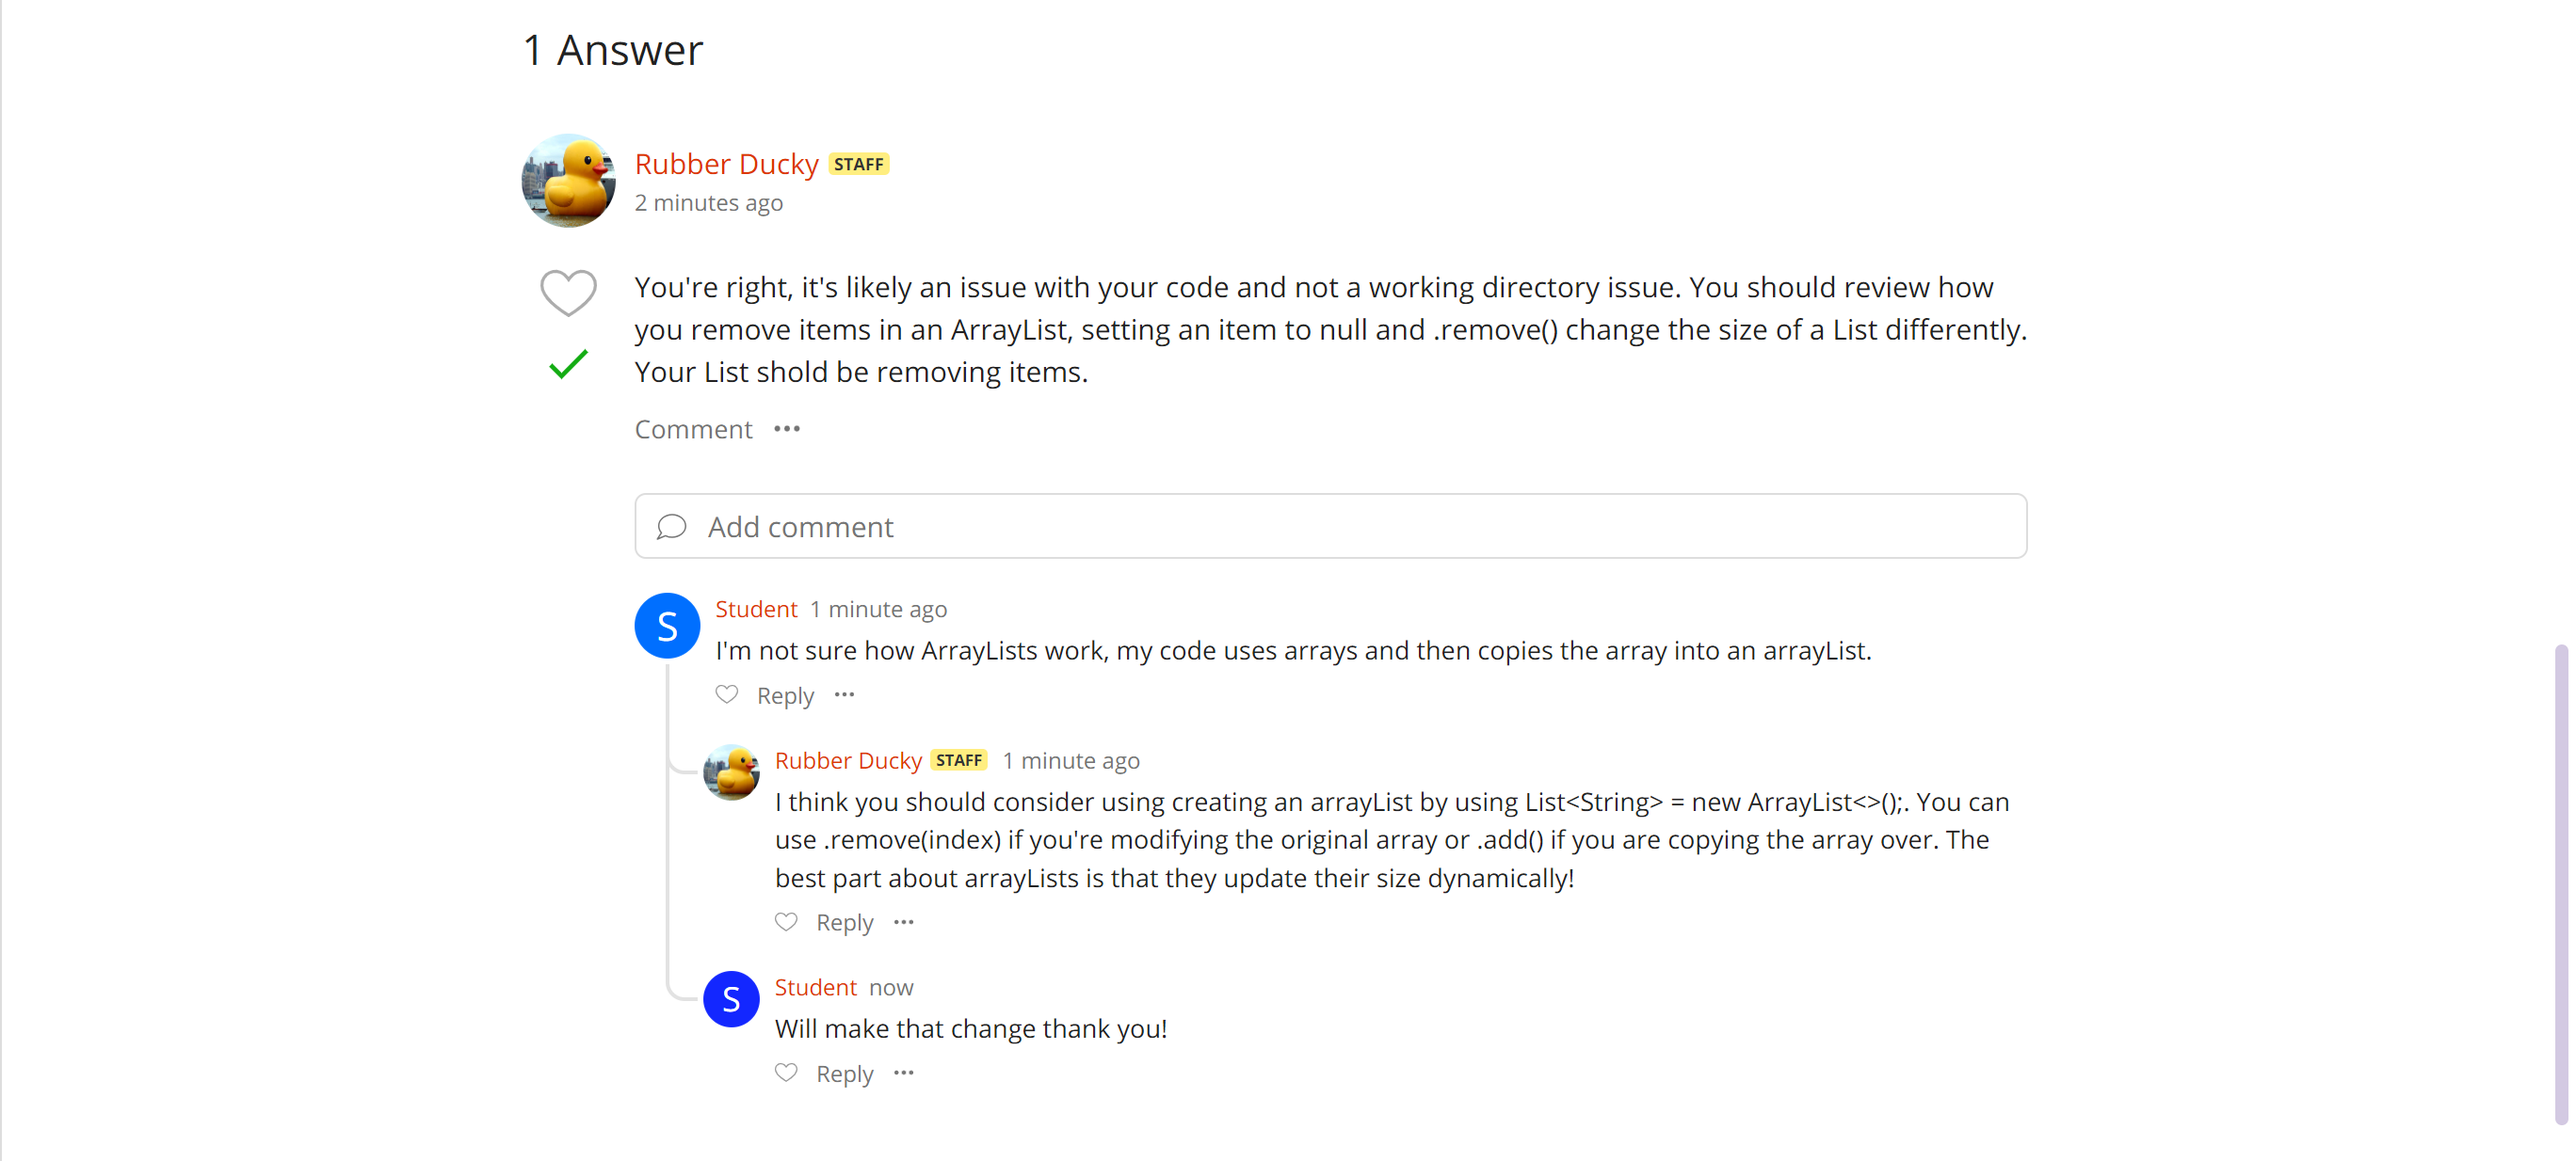
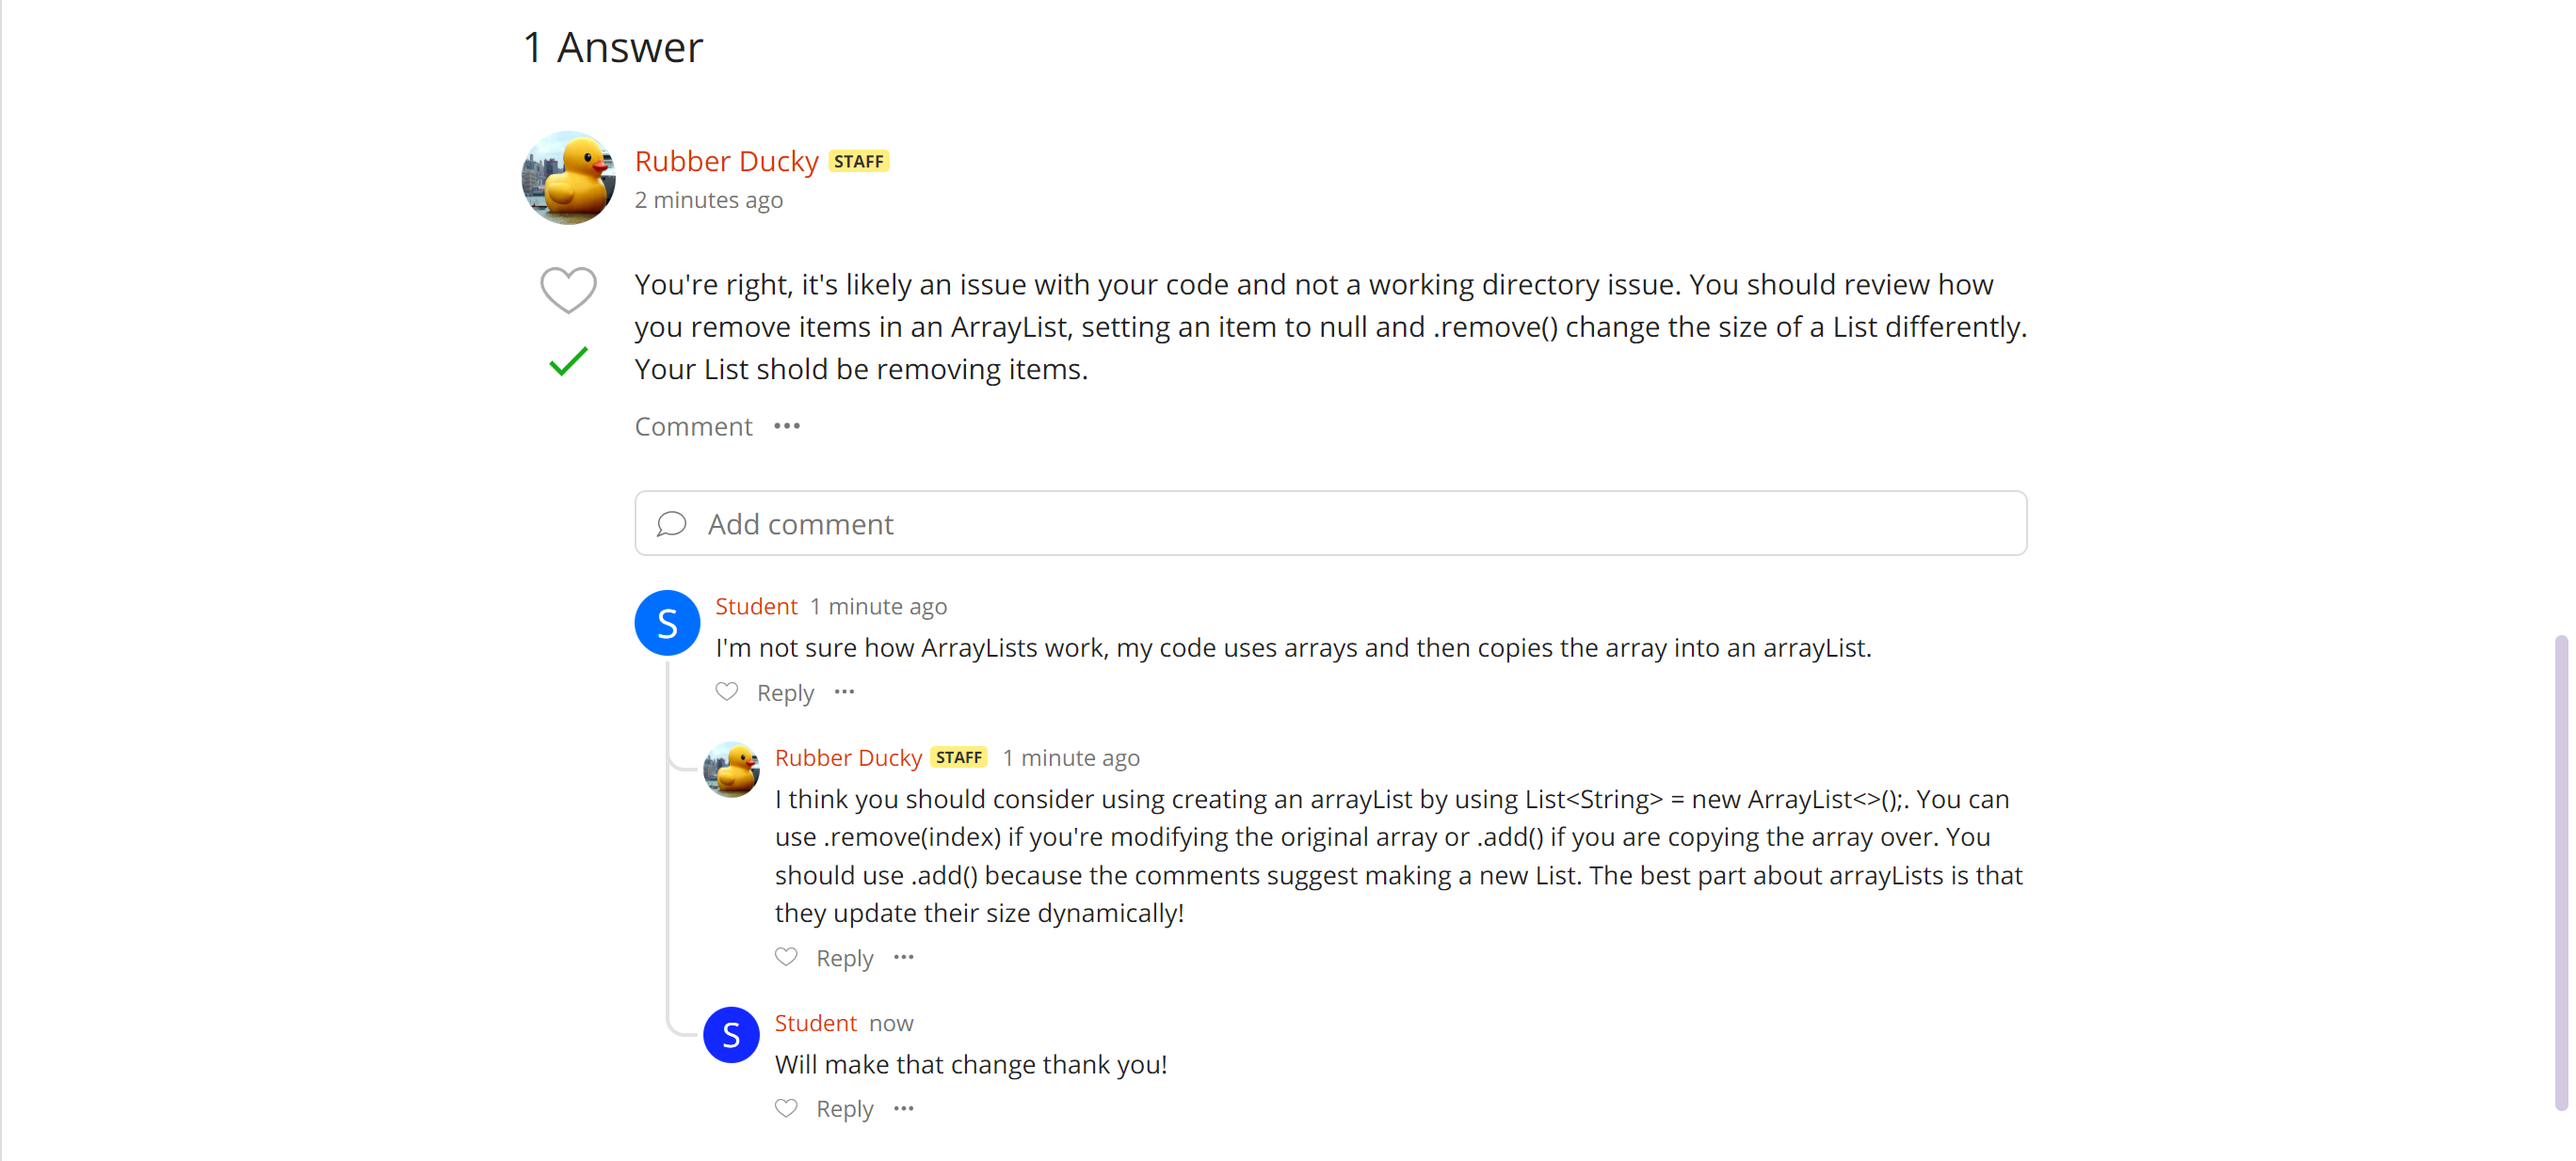
Update lab 5

diff --git a/lab5/lab5.md b/lab5/lab5.md
@@ -1,5 +1,5 @@
 # Lab 5 - Edstem Rubber Ducky Debugging 🦆
-1. The original post from a student with a screenshot showing a symptom and a description of a guess at the bug/some sense of what the failure-inducing input is. (Don’t actually make the post; just write the content that would go in such a post)
+1. The original post from a student with a screenshot showing a symptom and a description of a guess at the bug/some sense of what the failure-inducing input is. 
 ![Image](img/P1.png)
 ![Image](img/P2.png)
 
@@ -7,5 +7,28 @@
 ![Image](img/A1.png)
 
 3. Another screenshot/terminal output showing what information the student got from trying that, and a clear description of what the bug is.
-    - I then changed my implemetation of the filter method to not include nulls in my lists. 
-    - 
+    - Changed the implemetation of the filter method to not include nulls in lists by opting to use ArrayLists instead of arrays for dynamic sizing.
+    - ![Image](img/after.png)
+    - ![Image](img/fix.png)
+
+4. At the end, all the information needed about the setup including:
+    - The file & directory structure needed
+        - Project/
+            - lib/
+                - hamcrest-core-1.3.jar
+                - junit-4.13.2.jar
+            - grade.sh
+            - ListExamples.java
+            - TestListExamples.java
+                
+    - The contents of each file before fixing the bug
+        - ![Image](img/before.png)
+    - The full command line (or lines) you ran to trigger the bug
+        - `bash grade.sh ListExamples.java`
+    - A description of what to edit to fix the bug
+        - Go to `ListExamples.java`
+        - Change line 14 to `List<String> result = new ArrayList<>();`
+        - Change line 17 to `result.add(list.get(i));`
+        - Delete line 20
+        - Run `bash grade.sh ListExamples.java`
+        - Profit!!!
